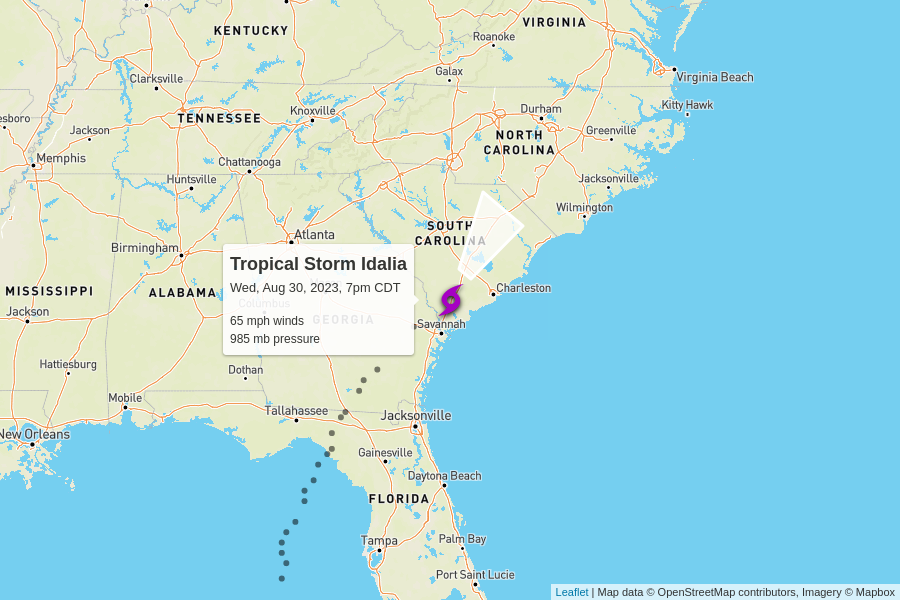
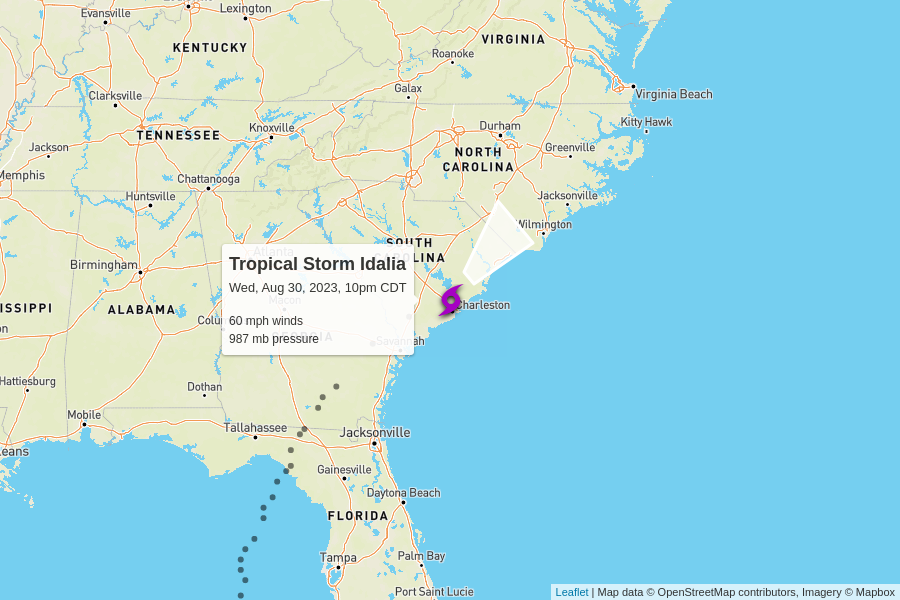
automatic update

diff --git a/docs/index.html b/docs/index.html
@@ -100,7 +100,7 @@
         <td colspan="6" class="storm category-2" >
           <h2>
             Hurricane Franklin - Category 2
-            <p class="updated">last updated <span data-time>2023-08-31T00:00:00.000Z</span></p>
+            <p class="updated">last updated <span data-time>2023-08-31T03:00:00.000Z</span></p>
           </h2>
         </td>
       </tr>
@@ -115,8 +115,8 @@
       </tr>
       <tr>
         <td class="spacer"></td>
-        <td>105 mph</td>
-        <td>961 mb</td>
+        <td>100 mph</td>
+        <td>965 mb</td>
         <td>
           14 mph to the east-northeast
           <br/>
@@ -144,7 +144,7 @@
         <td colspan="6" class="storm category-0" >
           <h2>
             Tropical Storm Idalia
-            <p class="updated">last updated <span data-time>2023-08-31T00:00:00.000Z</span></p>
+            <p class="updated">last updated <span data-time>2023-08-31T03:00:00.000Z</span></p>
           </h2>
         </td>
       </tr>
@@ -159,12 +159,12 @@
       </tr>
       <tr>
         <td class="spacer"></td>
-        <td>65 mph</td>
-        <td>985 mb</td>
+        <td>60 mph</td>
+        <td>987 mb</td>
         <td>
           21 mph to the northeast
           <br/>
-          <span style="display: inline-block; font-size: 1.5em; transform: rotate(35deg);">↑</span>
+          <span style="display: inline-block; font-size: 1.5em; transform: rotate(45deg);">↑</span>
         </td>
         <td><a href="https://raw.githubusercontent.com/mgwalker/atlantic-hurricanes/main/data/csv/AL102023.csv">AL102023.csv</a></td>
         <td><a href="https://www.nhc.noaa.gov/archive/2023/IDALIA.shtml?">NHC advisories</a></td>
@@ -188,7 +188,7 @@
         <td colspan="6" class="storm category-0" >
           <h2>
             Tropical Depression Eleven
-            <p class="updated">last updated <span data-time>2023-08-30T21:00:00.000Z</span></p>
+            <p class="updated">last updated <span data-time>2023-08-31T03:00:00.000Z</span></p>
           </h2>
         </td>
       </tr>
